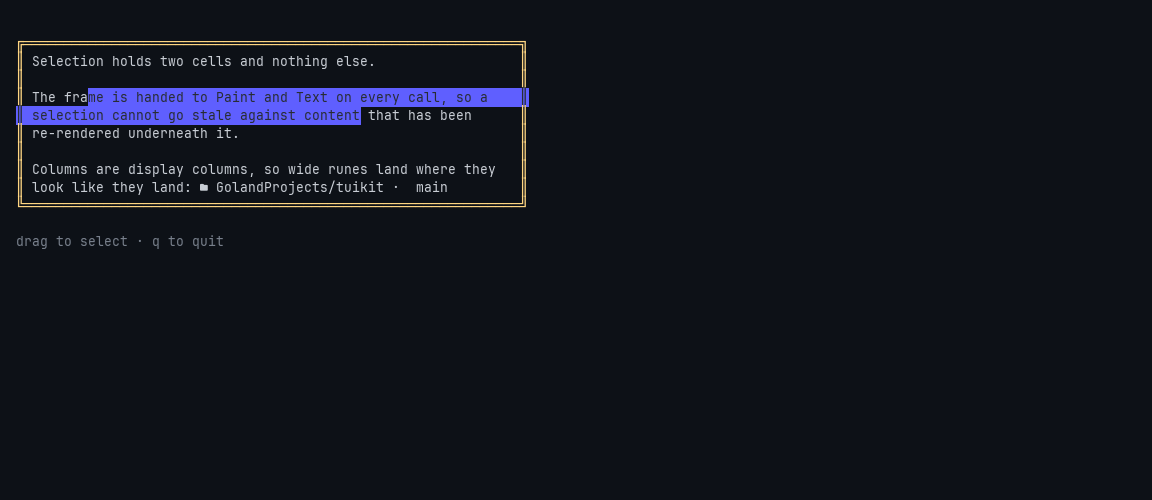
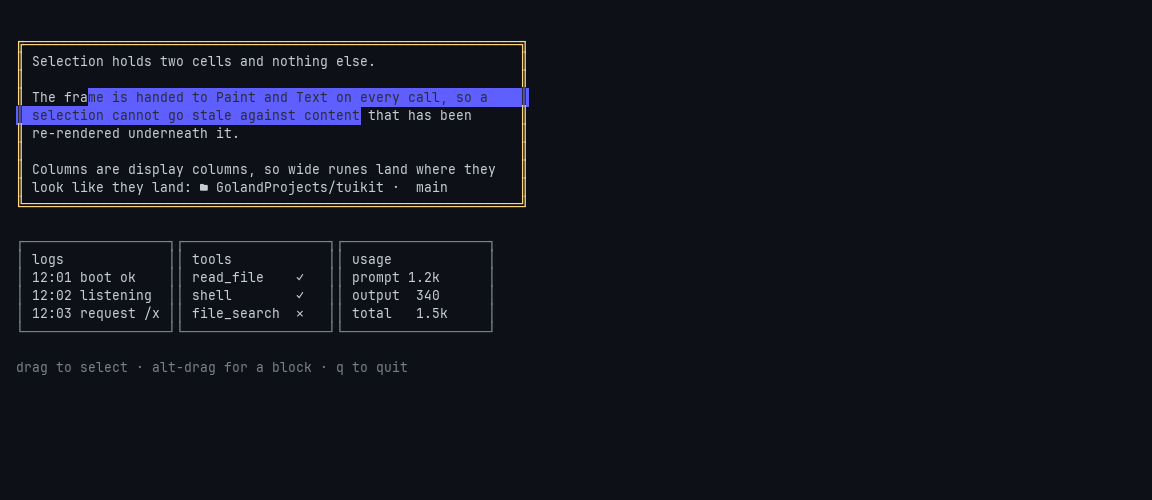
feat: block (rectangular) selection mode
Selection is linear: the first row runs to the end of the line, whole rows
follow, the last ends at the cursor. In a frame laid out in columns, a drag
inside one panel therefore copies its neighbours and their borders too.

Block clamps every row to the dragged column range, so the selection is the
rectangle the mouse drew. Option A from #18, which the issue recommends first;
region-aware clipping (Option B) is not implemented.

The example grows a three-panel row and binds block mode to alt-drag, the
terminal convention, with a recording that plays the same drag twice.

Fixes #18

diff --git a/selection_test.go b/selection_test.go
@@ -139,3 +139,93 @@ func TestSelectionPaintEmptyIsUntouched(t *testing.T) {
 		t.Fatalf("empty selection painted %q", got)
 	}
 }
+
+// panelsView is the three-panel frame from issue #18: a drag inside the left
+// panel must not pick up the panels beside it.
+const panelsView = "" +
+	"┌──────────────────────┐┌──────────────────────┐┌──────────────────────┐\n" +
+	"│ logs                 ││ tools                ││ usage                │\n" +
+	"│ 12:01 boot ok        ││ read_file  ✓         ││ prompt 1.2k          │\n" +
+	"│ 12:02 listening      ││ shell      ✓         ││ output  340          │\n" +
+	"│ 12:03 request /x     ││ file_search ✕        ││ total  1.5k          │\n" +
+	"└──────────────────────┘└──────────────────────┘└──────────────────────┘"
+
+func TestSelectionBlockStaysInsideOnePanel(t *testing.T) {
+	var s Selection
+	s.Block = true
+	s.Begin(Cell{Row: 3, Col: 2})
+	s.Extend(Cell{Row: 5, Col: 20})
+	want := "12:02 listening\n12:03 request /x\n──────────────────"
+	if got := s.Text(panelsView); got != want {
+		t.Fatalf("Text = %q, want %q", got, want)
+	}
+}
+
+func TestSelectionLinearStillRunsToLineEnds(t *testing.T) {
+	var s Selection
+	s.Begin(Cell{Row: 3, Col: 2})
+	s.Extend(Cell{Row: 5, Col: 20})
+	got := s.Text(panelsView)
+	if !strings.Contains(got, "shell") || !strings.Contains(got, "total  1.5k") {
+		t.Fatalf("linear selection dropped the neighbouring panels: %q", got)
+	}
+}
+
+func TestSelectionBlockZeroWidthDragSelectsNothing(t *testing.T) {
+	var s Selection
+	s.Block = true
+	s.Begin(Cell{Row: 2, Col: 8})
+	s.Extend(Cell{Row: 4, Col: 8})
+	if s.Empty() {
+		t.Fatal("a vertical drag is not a selection")
+	}
+	if got := s.Text(panelsView); got != "" {
+		t.Fatalf("zero-width block selected %q", got)
+	}
+	if got := s.Paint(panelsView, highlight()); got != panelsView {
+		t.Fatalf("zero-width block painted %q", got)
+	}
+}
+
+func TestSelectionBlockIsTheSameDraggedRightToLeft(t *testing.T) {
+	var forward, backward Selection
+	forward.Block, backward.Block = true, true
+	forward.Begin(Cell{Row: 3, Col: 2})
+	forward.Extend(Cell{Row: 5, Col: 20})
+	backward.Begin(Cell{Row: 5, Col: 20})
+	backward.Extend(Cell{Row: 3, Col: 2})
+	if got, want := backward.Text(panelsView), forward.Text(panelsView); got != want {
+		t.Fatalf("backward drag = %q, forward = %q", got, want)
+	}
+	// Up-and-rightwards too, so neither end owns a column.
+	var mixed Selection
+	mixed.Block = true
+	mixed.Begin(Cell{Row: 5, Col: 20})
+	mixed.Extend(Cell{Row: 3, Col: 2})
+	if got, want := mixed.Text(panelsView), forward.Text(panelsView); got != want {
+		t.Fatalf("mixed drag = %q, forward = %q", got, want)
+	}
+}
+
+func TestSelectionBlockSingleRowMatchesLinear(t *testing.T) {
+	var block, linear Selection
+	block.Block = true
+	block.Begin(Cell{Row: 0, Col: 6})
+	block.Extend(Cell{Row: 0, Col: 11})
+	linear.Begin(Cell{Row: 0, Col: 6})
+	linear.Extend(Cell{Row: 0, Col: 11})
+	if got, want := block.Text(selectionView), linear.Text(selectionView); got != want {
+		t.Fatalf("block single row = %q, linear = %q", got, want)
+	}
+}
+
+func TestSelectionBlockClearKeepsTheMode(t *testing.T) {
+	var s Selection
+	s.Block = true
+	s.Begin(Cell{Row: 0, Col: 0})
+	s.Extend(Cell{Row: 1, Col: 4})
+	s.Clear()
+	if !s.Block {
+		t.Fatal("Clear dropped block mode")
+	}
+}

diff --git a/examples/selection/main.go b/examples/selection/main.go
@@ -7,6 +7,10 @@
 // drag, and releasing copies the range to the clipboard — the footer echoes
 // what went there. Press q to quit.
 //
+// Hold alt while dragging for block mode: the selection is the rectangle the
+// mouse drew, so a drag inside one of the three panels copies that panel alone
+// instead of running through its neighbours to the ends of the lines.
+//
 // The point is that the app draws the selection itself. A terminal program that
 // enables mouse tracking takes drag events away from the terminal, so the
 // terminal's own selection stops working; without something like this, there is
@@ -33,11 +37,20 @@ re-rendered underneath it.
 Columns are display columns, so wide runes land where they
 look like they land:  GolandProjects/tuikit ·  main`
 
+// panels is the case linear selection gets wrong: a drag through the left one
+// runs to the end of each line and picks up the other two.
+var panels = []string{
+	"logs\n12:01 boot ok\n12:02 listening\n12:03 request /x",
+	"tools\nread_file    \u2713\nshell        \u2713\nfile_search  \u2715",
+	"usage\nprompt 1.2k\noutput  340\ntotal   1.5k",
+}
+
 type model struct {
 	theme     tuikit.Theme
 	selection tuikit.Selection
 	frame     string
 	copied    string
+	blockCopy bool
 }
 
 func (m *model) Init() tea.Cmd { return nil }
@@ -50,6 +63,8 @@ func (m *model) Update(msg tea.Msg) (tea.Model, tea.Cmd) {
 		}
 		m.selection.Clear()
 	case tea.MouseClickMsg:
+		// Alt-drag is the terminal convention for a rectangular selection.
+		m.selection.Block = msg.Mod&tea.ModAlt != 0
 		m.selection.Begin(tuikit.Cell{Row: msg.Y, Col: msg.X})
 	case tea.MouseMotionMsg:
 		m.selection.Extend(tuikit.Cell{Row: msg.Y, Col: msg.X})
@@ -57,6 +72,7 @@ func (m *model) Update(msg tea.Msg) (tea.Model, tea.Cmd) {
 		if text := m.selection.Text(m.frame); text != "" {
 			// One line, bounded: the echo is proof the copy happened, not a
 			// second copy of the text.
+			m.blockCopy = m.selection.Block
 			m.copied = tuikit.TruncMiddle(strings.ReplaceAll(text, "\n", " ⏎ "), 56)
 			m.selection.Clear()
 			return m, tea.SetClipboard(text)
@@ -69,11 +85,20 @@ func (m *model) Update(msg tea.Msg) (tea.Model, tea.Cmd) {
 func (m *model) View() tea.View {
 	muted := m.theme.Accent(m.theme.Muted)
 	body := m.theme.PanelStyle(m.theme.Brand, true).Width(64).Render(sample)
-	footer := muted.Render("drag to select · q to quit")
-	if m.copied != "" {
-		footer = m.theme.Accent(m.theme.Green).Render("copied") + " " + muted.Render(m.copied)
+	row := make([]string, len(panels))
+	for i, text := range panels {
+		row[i] = m.theme.PanelStyle(m.theme.Muted, false).Width(20).Render(text)
 	}
-	m.frame = lipgloss.JoinVertical(lipgloss.Left, "", body, "", footer)
+	columns := lipgloss.JoinHorizontal(lipgloss.Top, row...)
+	footer := muted.Render("drag to select · alt-drag for a block · q to quit")
+	if m.copied != "" {
+		mode := "copied"
+		if m.blockCopy {
+			mode = "copied (block)"
+		}
+		footer = m.theme.Accent(m.theme.Green).Render(mode) + " " + muted.Render(m.copied)
+	}
+	m.frame = lipgloss.JoinVertical(lipgloss.Left, "", body, "", columns, "", footer)
 
 	// A selection reads as one block of color with legible text on it, the way
 	// a terminal's own does — background alone leaves the original foreground

diff --git a/selection.go b/selection.go
@@ -18,14 +18,21 @@ type Cell struct{ Row, Col int }
 // [Selection.Text] each time, so a selection never goes stale against content
 // that has been re-rendered underneath it.
 //
-// Selection is linear, the way a text editor and a terminal are: the first row
-// runs from the anchor to the end of the line, whole rows follow, and the last
-// row ends at the cursor. That is right for a transcript and wrong for a frame
-// laid out in columns, where a drag inside one panel still picks up the panels
-// beside it — see issue #18 for block and region-aware modes.
+// Selection is linear by default, the way a text editor and a terminal are:
+// the first row runs from the anchor to the end of the line, whole rows
+// follow, and the last row ends at the cursor. That is right for a transcript
+// and wrong for a frame laid out in columns, where a drag inside one panel
+// still picks up the panels beside it. Set [Selection.Block] for that case: it
+// clamps every row to the dragged column range, so the selection is the
+// rectangle the mouse drew. Hosts usually bind it to alt-drag, the terminal
+// convention.
 //
-// The zero value is an empty selection, ready to use.
+// The zero value is an empty linear selection, ready to use.
 type Selection struct {
+	// Block selects a rectangle rather than a run of lines. It can be flipped
+	// mid-drag: nothing is cached, so the next Paint or Text just reads it.
+	Block bool
+
 	anchor Cell
 	cursor Cell
 	active bool
@@ -43,8 +50,8 @@ func (s *Selection) Extend(c Cell) {
 	}
 }
 
-// Clear drops the selection.
-func (s *Selection) Clear() { *s = Selection{} }
+// Clear drops the selection, keeping the Block mode the host set.
+func (s *Selection) Clear() { *s = Selection{Block: s.Block} }
 
 // Empty reports whether there is nothing to paint or copy — no selection, or
 // one that never moved off its anchor (a plain click).
@@ -101,11 +108,16 @@ func (s Selection) span(row, width int) (int, int, bool) {
 		return 0, 0, false
 	}
 	left, right := 0, width
-	if row == start.Row {
-		left = start.Col
-	}
-	if row == end.Row {
-		right = end.Col
+	switch {
+	case s.Block:
+		left, right = min(s.anchor.Col, s.cursor.Col), max(s.anchor.Col, s.cursor.Col)
+	default:
+		if row == start.Row {
+			left = start.Col
+		}
+		if row == end.Row {
+			right = end.Col
+		}
 	}
 	left, right = clamp(left, width), clamp(right, width)
 	return left, right, left < right

diff --git a/scripts/record.py b/scripts/record.py
@@ -78,6 +78,21 @@ SCRIPTS = {
         (1.6, "\x1b[<0;31;7m", True),        # release: the footer echoes the copy
         (1.2, None, True),
     ], 2.6),                                 # mid-drag, two lines in
+    # The same drag twice over the three-panel row, linear then alt-held: the
+    # first runs to the ends of the lines and takes the neighbouring panels
+    # with it, the second stays inside the rectangle. Alt is button code +8.
+    "selection-block": ([
+        (1.4, None, False),                  # first paint
+        (0.7, "\x1b[<0;3;15M", True),        # press inside the left panel
+        (0.5, "\x1b[<32;12;16M", True),      # drag down and right
+        (0.6, "\x1b[<32;21;17M", True),
+        (1.8, "\x1b[<0;21;17m", True),       # release: all three panels copied
+        (0.9, "\x1b[<8;3;15M", True),        # same press, alt held
+        (0.5, "\x1b[<40;12;16M", True),
+        (0.6, "\x1b[<40;21;17M", True),
+        (1.8, "\x1b[<8;21;17m", True),       # release: just the left panel
+        (1.0, None, True),
+    ], 8.0),                                 # mid alt-drag, the block visible
     "syntax": ([
         (1.5, None, False),   # first paint
         (2.6, None, True),    # tokyonight-night

diff --git a/README.md b/README.md
@@ -42,6 +42,12 @@ the footer:
 
 ![Selection](docs/gifs/selection.gif)
 
+Holding alt makes the drag a block: every row is clamped to the dragged column
+range, so a drag inside the left panel copies that panel and not the two beside
+it. The same drag is played twice below, linear then alt-held:
+
+![Block selection](docs/gifs/selection-block.gif)
+
 `StreamingMarkdown`, from `go run ./examples/streaming`. A generated document
 arrives a character at a time; blocks that have settled are formatted and
 cached, and the unfinished tail is rendered too, with whatever constructs it
